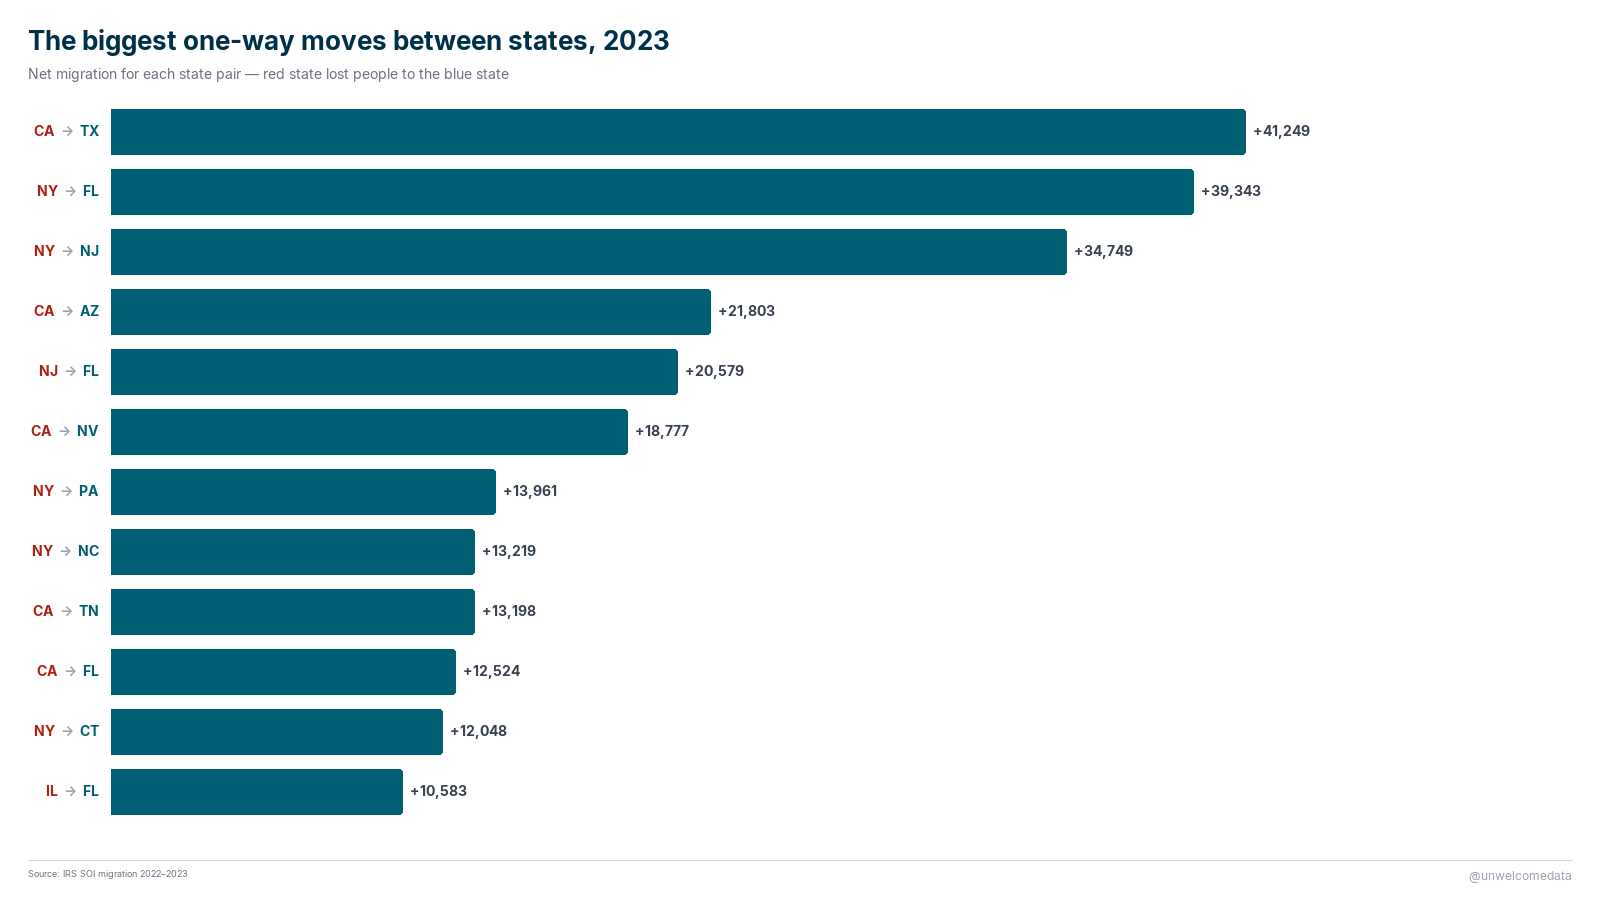
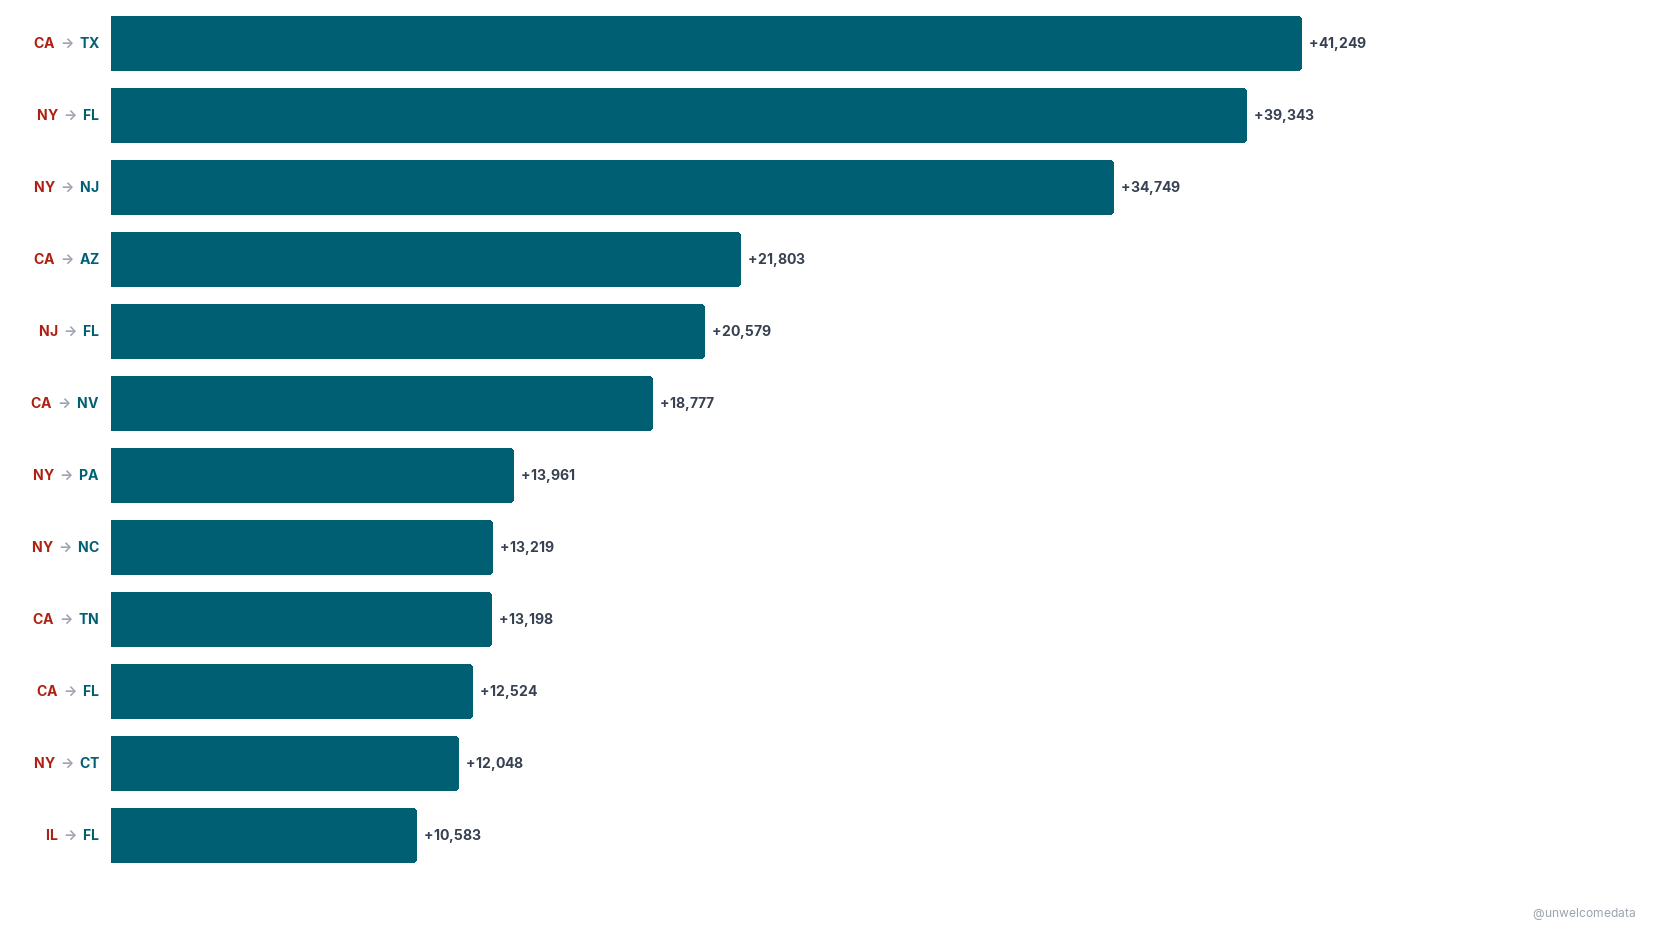
docs: web-optimized charts + wider column + click-to-zoom
docs/ charts are now the web renders (no title/subtitle/source chrome, larger
data, watermark only). assets/css/style.scss widens the Cayman column; README
wraps each chart in a click-to-zoom link and now carries the year, the 'net =
arrivals minus departures' definition, units (billions / $k per migrant), and
the >=20k filter that used to live only in the chart subtitles.

diff --git a/assets/css/style.scss b/assets/css/style.scss
@@ -1,0 +1,29 @@
+---
+---
+
+@import "{{ site.theme }}";
+
+/* ------------------------------------------------------------------ *
+ * @unwelcomedata — shared Cayman overrides (standard across projects)
+ *   1. Widen the content column so charts read without zooming. Stock
+ *      Cayman caps at 64rem with 6rem side padding (~832px usable on
+ *      desktop); we widen it and trim padding at the large breakpoint.
+ *      Mobile/tablet breakpoints are left as the theme ships them.
+ *   2. Let a chart image act as a click-to-open link to the full-res PNG.
+ * ------------------------------------------------------------------ */
+
+@media screen and (min-width: 64em) {
+  .main-content {
+    max-width: 80rem;      /* was 64rem (~1024px) -> ~1280px */
+    padding: 2rem 4rem;    /* was 2rem 6rem -> reclaim 2rem each side */
+  }
+}
+
+.main-content img {
+  max-width: 100%;
+  height: auto;
+}
+.main-content a > img {
+  display: block;
+  margin: 0 auto;
+}

diff --git a/README.md b/README.md
@@ -25,30 +25,37 @@ they answer different questions and shouldn't be blended into one number.
 
 ## The charts
 
+_All figures are for **2023**, from IRS tax-return data. "Net" = inflow-file
+arrivals minus outflow-file departures. Click any chart to open it full size._
+
 **The 5 states gaining the most people — and the 5 losing the most.** Net
-migration, 2023.
+migration in 2023 (arrivals minus departures), trimmed to the 10 extremes.
 
-![Net migration by state, 2023](docs/01_net_migration_by_state.png)
+[![Net migration by state, 2023](docs/01_net_migration_by_state.png)](docs/01_net_migration_by_state.png)
 
-**The biggest one-way moves between states.** The largest *net* directed pairs —
-where one state consistently drained into another.
+**The biggest one-way moves between states, 2023.** The largest *net* directed
+pairs — the red state lost people to the blue state.
 
-![Biggest one-way moves between states, 2023](docs/02_biggest_one_way_moves.png)
+[![Biggest one-way moves between states, 2023](docs/02_biggest_one_way_moves.png)](docs/02_biggest_one_way_moves.png)
 
 **The states gaining — and losing — the most income to migration.** Net adjusted
-gross income (IRS), 2023.
+gross income moved with migrants in 2023, in **billions of dollars** (IRS AGI,
+origin-year dollars).
 
-![Net income by state from migration, 2023](docs/03_net_income_by_state.png)
+[![Net income by state from migration, 2023](docs/03_net_income_by_state.png)](docs/03_net_income_by_state.png)
 
-**The average income of the people each state gains and loses.** Net AGI divided
-by net migrants — a per-person read on who's arriving vs. leaving.
+**The average income of the people each state gains and loses.** Net AGI per net
+migrant in 2023, in **thousands of dollars per person** — right: income arriving
+per net newcomer; left: income leaving per net departure. States with net
+migration of at least 20,000 people.
 
-![Income per net migrant by state](docs/04_income_per_migrant.png)
+[![Income per net migrant by state](docs/04_income_per_migrant.png)](docs/04_income_per_migrant.png)
 
-**Most interstate moves cancel each other out.** Net migration against gross
-churn, showing how little of the movement nets out.
+**Most interstate moves cancel each other out.** Each dot is a state pair, net
+migration against gross (total) churn. A pair can never have more net than total
+migration, so the diagonal is a ceiling almost no pair reaches.
 
-![Net vs gross interstate migration](docs/05_net_vs_gross.png)
+[![Net vs gross interstate migration](docs/05_net_vs_gross.png)](docs/05_net_vs_gross.png)
 
 ---
 
